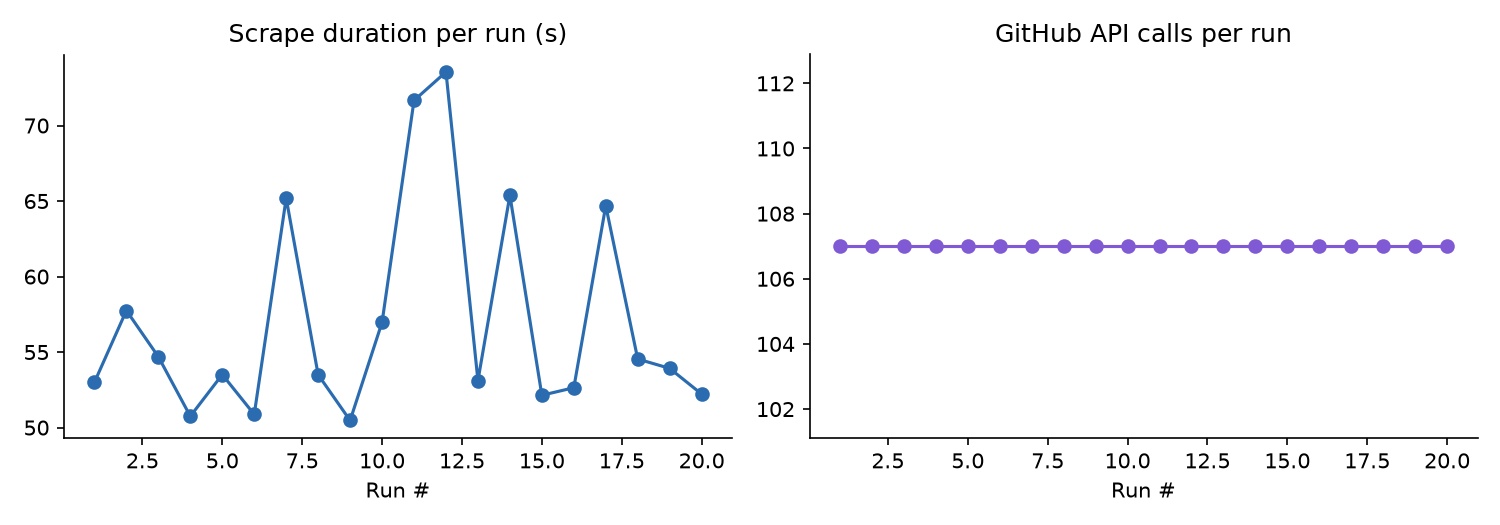
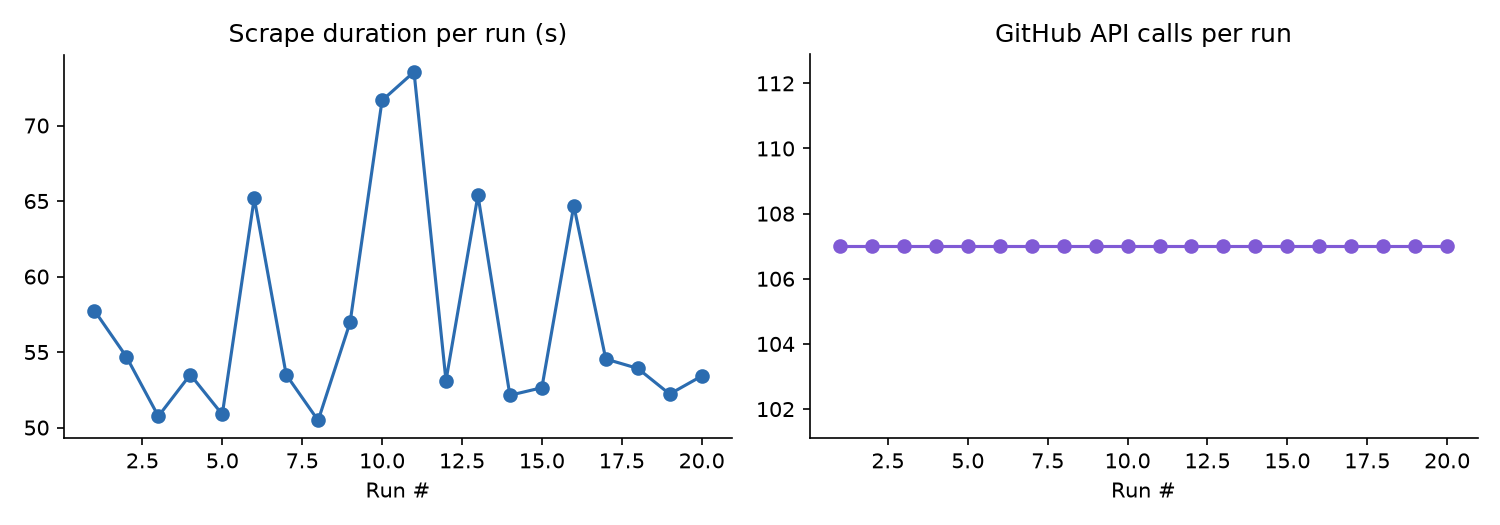
Weekly issue tracker refresh

Changed region(s): [[0.0613, 0.1219, 0.4907, 0.8229]]

diff --git a/README.md b/README.md
@@ -81,7 +81,7 @@ See [CONTRIBUTING.md](CONTRIBUTING.md) for the full contributor workflow — inc
 
 <!-- TRACKER:START -->
 
-_Last updated: 2026-07-25 21:24 UTC_
+_Last updated: 2026-07-25 21:45 UTC_
 
 _Tracking **18** upstream repos, **389** relevant open issues._
 
@@ -294,7 +294,7 @@ _Tracking **18** upstream repos, **389** relevant open issues._
 
 <!-- METRICS:START -->
 
-_Last run: 2026-07-25 21:23 UTC, took **52.2s**, **107** GitHub API calls, **4682/5000** rate limit remaining._
+_Last run: 2026-07-25 21:44 UTC, took **53.4s**, **107** GitHub API calls, **4894/5000** rate limit remaining._
 
 ![Scrape metrics trend](assets/metrics_trend.png)
 
